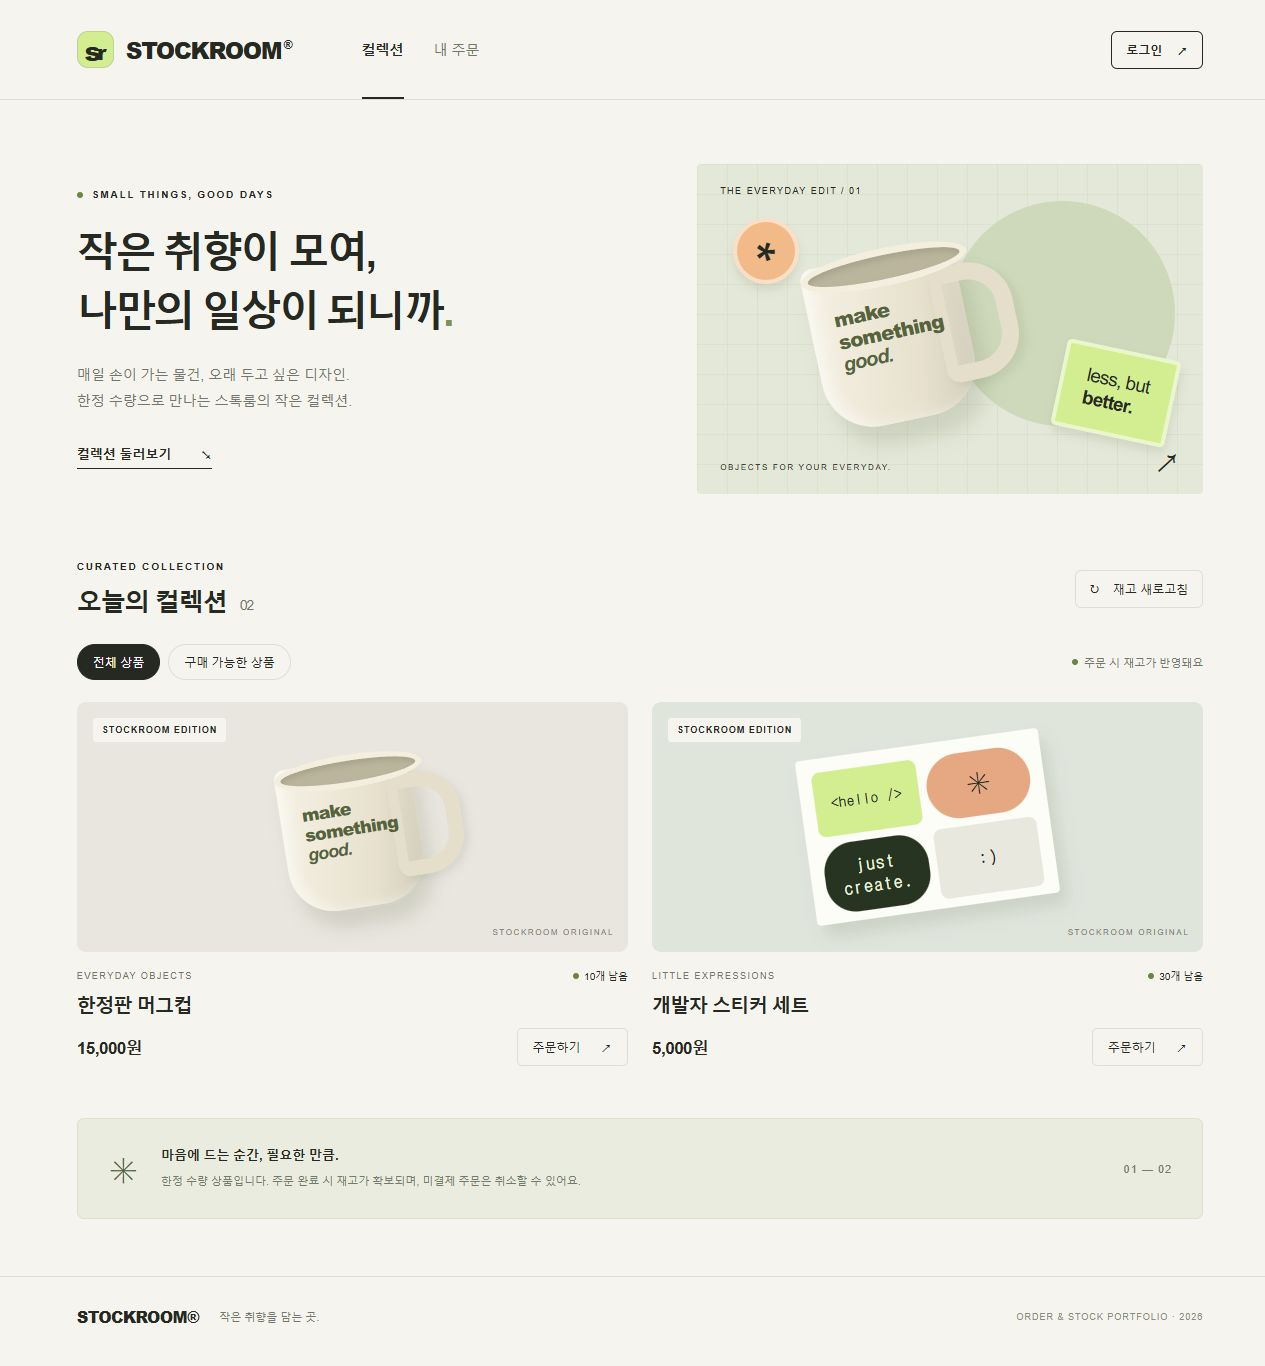
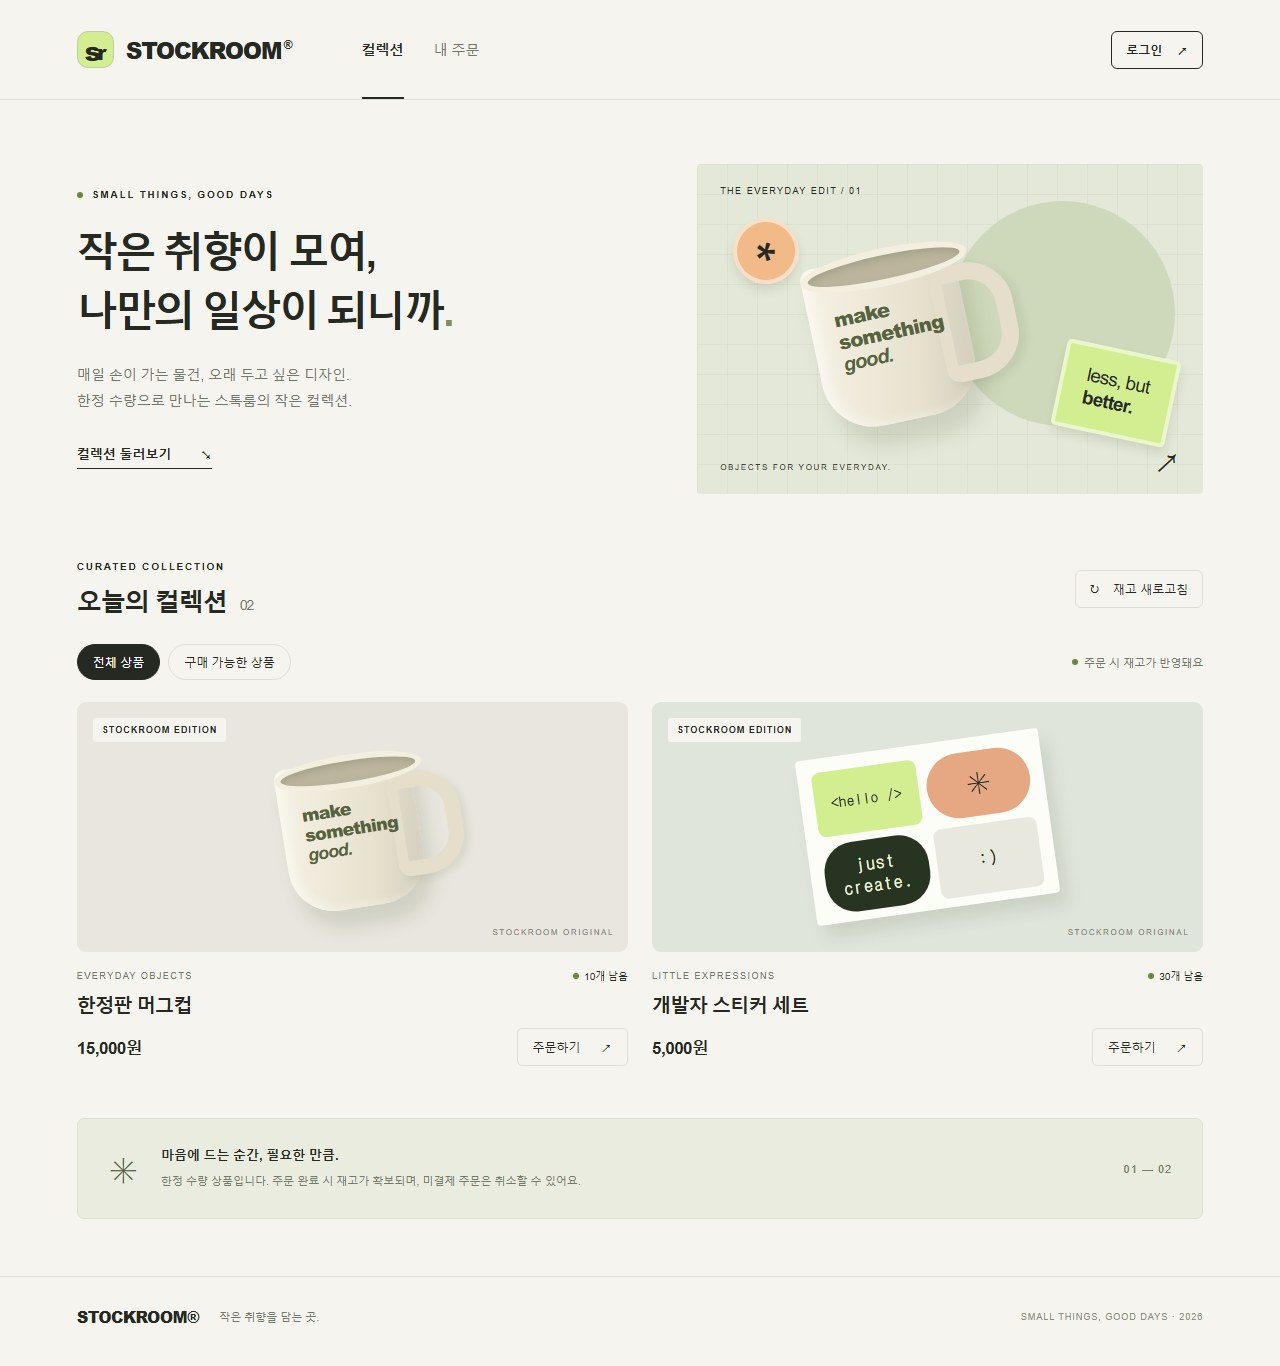
docs: align project documentation and interface copy

diff --git a/src/main/resources/static/index.html b/src/main/resources/static/index.html
@@ -32,7 +32,7 @@
     </section>
     <section id="orders-view" hidden aria-labelledby="orders-title"><div class="page-intro"><p class="eyebrow">YOUR LITTLE COLLECTION</p><h1 id="orders-title">내 주문<span class="period">.</span></h1><p>담아 둔 취향과 주문의 모든 순간을 확인하세요.</p></div><div class="section-heading"><h2>주문 내역</h2><button class="button ghost small" id="refresh-orders">↻ 새로고침</button></div><div id="orders" aria-live="polite"></div><button class="button load-more" id="load-more" hidden>이전 주문 더 보기 ↓</button></section>
   </main>
-  <footer><a class="footer-brand" href="#shop">STOCKROOM®</a><p>작은 취향을 담는 곳.</p><span>ORDER & STOCK PORTFOLIO · 2026</span></footer>
+  <footer><a class="footer-brand" href="#shop">STOCKROOM®</a><p>작은 취향을 담는 곳.</p><span>SMALL THINGS, GOOD DAYS · 2026</span></footer>
   <div id="toast" role="status" aria-live="polite" hidden></div>
   <dialog id="auth-dialog" aria-labelledby="auth-title"><button class="close" data-close aria-label="닫기">×</button><p class="eyebrow">WELCOME TO STOCKROOM</p><h2 id="auth-title">다시 만나 반가워요.</h2><p id="auth-description" class="muted">로그인하고 나만의 컬렉션을 만나보세요.</p><form id="auth-form"><label for="email">이메일</label><input id="email" name="email" type="email" autocomplete="username" placeholder="you@example.com" maxlength="254" required><label for="password">비밀번호</label><input id="password" name="password" type="password" autocomplete="current-password" placeholder="비밀번호를 입력하세요" required><p id="password-help" class="field-help" hidden>8자 이상, UTF-8 기준 72바이트 이하로 입력하세요.</p><p class="form-error" id="auth-error" role="alert"></p><button class="button primary full" id="auth-submit" type="submit">로그인 →</button></form><p class="auth-switch"><span id="auth-switch-label">아직 계정이 없나요?</span> <button class="text-link" id="auth-switch">회원가입</button></p></dialog>
   <dialog id="purchase-dialog" aria-labelledby="purchase-title"><button class="close" data-close aria-label="닫기">×</button><p class="eyebrow">A LITTLE SOMETHING FOR YOU</p><h2 id="purchase-title">주문하기</h2><p class="muted" id="purchase-stock"></p><form id="purchase-form"><div class="quantity-row"><label for="quantity">수량</label><div class="stepper"><button type="button" id="quantity-minus" aria-label="수량 줄이기">−</button><input id="quantity" name="quantity" type="number" min="1" step="1" value="1" required><button type="button" id="quantity-plus" aria-label="수량 늘리기">+</button></div></div><div class="total-row"><span>주문 금액</span><strong id="purchase-total"></strong></div><p class="field-help">주문이 완료되면 재고가 확보돼요. 결제 전에는 내 주문에서 취소할 수 있어요.</p><p class="form-error" id="purchase-error" role="alert"></p><button class="button primary full" id="purchase-submit" type="submit">주문 완료하기 →</button></form></dialog>

diff --git a/docs/design-and-validation.md b/docs/design-and-validation.md
@@ -3,12 +3,12 @@
 ## 프로젝트 목적과 범위
 
 한정 수량 상품을 여러 회원이 동시에 주문할 때 초과 판매를 막고,
-응답을 받지 못해 재시도해도 주문이 중복 생성되지 않도록 구현한 Java/Spring 백엔드 포트폴리오입니다.
+응답을 받지 못해 재시도해도 주문이 중복 생성되지 않도록 구현한 Java/Spring 기반 주문·재고 서비스입니다.
 회원가입·상품·주문·모의 결제·모의 환불을 웹 화면에서 직접 체험하고 실제 MySQL 결과로 검증합니다.
 
 구현 범위는 단일 상품 주문·전액 모의 환불·단일 앱 인스턴스입니다.
 실제 PG·배송·장바구니·분산 세션은 포함하지 않습니다. 관리자 상품 등록·수정·판매 중지와 전체 재고 이동 원장을 제공합니다.
-2026-10-13 기준 공개 서버·도메인은 연결하지 않았으며 공개 배포 완료로 기재하지 않습니다.
+공개 서버·도메인은 아직 연결하지 않았습니다.
 
 ## 아키텍처
 
@@ -149,14 +149,16 @@ Java 17·MySQL 8.4, Docker가 보고한 CPU 16개·메모리 약 15.4 GiB 환경
 
 이 실험으로 기존 원장 BASELINE에 대한 반복 UPSERT의 인덱스 구간 잠금 교착을 발견했습니다.
 시작 재고는 생성 시 한 번만 기록하도록 수정하고 서로 다른 상품 8개에 대한 동시 주문 회귀 검증을 추가했습니다.
-성능 숫자와 함께 성공 여부·DB 잔액을 검증해야 하는 이유를 실제 오류와 수정으로 설명할 수 있습니다.
+처리량·지연과 함께 성공 주문 수와 DB 잔액을 확인해 정합성 문제가 있는 실행을 성능 비교에서 제외했습니다.
 
-## 면접에서 설명할 흐름
+## 주요 검증 시나리오
 
-1. 재고 10개에 동시 주문이 오거나 응답이 유실되는 상황을 먼저 제시합니다.
-2. 상품 잠금과 트랜잭션, 회원별 멱등 키가 각각 어떤 문제를 해결하는지 코드로 설명합니다.
-3. 성공 응답뿐 아니라 DB 주문 수·재고·실패 후 롤백을 확인한 검증을 보여줍니다.
-4. 같은 상품의 잠금 경합과 짧은 벤치마크의 한계를 설명하고, 실제 계측 뒤 개선할 계획을 말합니다.
+| 시나리오 | 확인하는 결과 | 재현 방법 |
+|---|---|---|
+| 재고 10개에 동시 주문 | 성공 주문 10건, 남은 재고 0개, 초과 판매 없음 | [HTTP 동시 요청 검증](load-testing.md) |
+| 주문 응답 유실 후 같은 키로 재시도 | 기존 주문 반환, 주문 생성·재고 차감 1회 | [멱등 요청](idempotency.md)·[브라우저 검증](browser-tests.md) |
+| 저장 도중 오류 발생 | 주문·재고·요청 키·원장 변경 전체 롤백 | MySQL 통합 테스트의 실패 주입 시나리오 |
+| 같은 상품과 여러 상품의 동시 주문 비교 | 성공 주문·원장 잔액 확인 후 처리량과 지연 비교 | [워밍업·반복 측정](paired-benchmark.md) |
 
 ## 남은 작업
 

diff --git a/docs/docker.md b/docs/docker.md
@@ -54,7 +54,7 @@ docker compose ps
 |---|---|
 | 이미지 빌드 | Temurin Java 17 JDK에서 Gradle Wrapper로 `bootJar` 실행 |
 | 앱 실행 | Java 17 JRE, UID/GID 10001의 전용 사용자 |
-| 앱 프로필 | 로컬 학습용 `local`: 세션 로그인·CSRF·모의 결제·환불 사용 가능 |
+| 앱 프로필 | 로컬 개발용 `local`: 세션 로그인·CSRF·모의 결제·환불 사용 가능 |
 | DB | MySQL 8.4, `order_stock` 스키마에 접근하는 `order_app` 계정 |
 | 시작 순서 | DB 계정의 TCP `SELECT 1` 성공 후 앱 시작, 앱 readiness로 준비 확인 |
 | 네트워크 | 앱은 컨테이너에서 `0.0.0.0:8080`, 호스트에는 `127.0.0.1:18080`만 공개 |
@@ -70,12 +70,12 @@ DB 준비 대기는 [Compose의 `service_healthy`](https://docs.docker.com/compo
 `docker compose config`와 `docker inspect`에는 실행 환경 변수가 보일 수 있으므로 출력 공유 시 주의하세요.
 설정 검증만 필요하면 위처럼 `config --quiet`를 사용합니다.
 
-이 Compose 파일은 본인 컴퓨터에서 HTTP로 실습하기 위한 구성입니다.
+이 Compose 파일은 본인 컴퓨터에서 HTTP로 실행하기 위한 구성입니다.
 외부 서버에 그대로 공개하지 마세요. 실제 운영은 [배포 안내](deployment.md)의 `prod`·HTTPS·운영 DB 구성을 사용합니다.
 운영 Docker 구성은 [HTTPS 배포 안내](https-deployment.md)의 별도 Compose 파일을 사용합니다.
 Docker 이미지를 단독 실행할 때는 기본 `prod`이며, 운영 접속 정보를 주지 않으면 시작을 거부합니다.
 
-## 인증·주문 실습
+## 인증·주문 API 안내
 
 [인증](auth.md), [주문](order-api.md), [결제](payments.md), [환불](refunds.md) 문서의 URL에서
 `http://localhost:8080`을 `http://localhost:18080`으로 바꿔 사용합니다.
@@ -120,7 +120,7 @@ docker compose exec db mysql --user=order_app --password order_stock
 3. 실제 HTTP 회원가입·로그인·CSRF, 주문과 재요청, 반복 취소, 모의 결제·환불과 재고 복구.
 4. `down` 후 같은 볼륨으로 컨테이너를 새로 만들고 회원·주문·재고·결제·환불 이력 보존 확인.
 
-CI의 비밀번호와 실습 회원은 매번 임의로 생성하며 CI 종료 시 전용 DB 볼륨을 정리합니다.
+CI의 비밀번호와 테스트 회원은 매번 임의로 생성하며 CI 종료 시 전용 DB 볼륨을 정리합니다.
 애플리케이션 통합 테스트 151개는 기존 [Backend CI](../.github/workflows/ci.yml)가 별도로 실행합니다.
 Docker 빌드의 `bootJar` 단계 자체가 테스트 실행을 대신하지 않습니다.
 

diff --git a/docs/development-workflow.md b/docs/development-workflow.md
@@ -6,12 +6,12 @@
 
 ## PR별 작업 기록
 
-| 브랜치 | 범위 | 검토 |
+| 작업 | 범위 | 검토 |
 |---|---|---|
 | `feat/browser-e2e` | 데스크톱·모바일 브라우저 테스트 | [PR #1](https://github.com/zeroziba9-hash/order-stock-service/pull/1) |
 | `feat/load-testing` | HTTP 동시 요청·실제 DB 결과·측정 | [PR #2](https://github.com/zeroziba9-hash/order-stock-service/pull/2) |
 | `feat/deployment-verification` | HTTPS 배포 결과 점검·CI·운영 기록 | [PR #3](https://github.com/zeroziba9-hash/order-stock-service/pull/3) |
-| `docs/portfolio` | README·아키텍처·설계 근거·검증 문서 | [PR #4](https://github.com/zeroziba9-hash/order-stock-service/pull/4) |
+| 설계·검증 문서 | README·아키텍처·설계 근거·검증 문서 | [PR #4](https://github.com/zeroziba9-hash/order-stock-service/pull/4) |
 | `feat/order-expiration` | 미결제 주문 자동 만료·V8→V9 업그레이드·브라우저 검증 | [PR #5](https://github.com/zeroziba9-hash/order-stock-service/pull/5) |
 | `feat/verified-api-docs` | 테스트 기반 REST Docs·API 계약·마스킹 검증 | [PR #6](https://github.com/zeroziba9-hash/order-stock-service/pull/6) |
 | `feat/observability` | Prometheus·Grafana·운영 계측 | [PR #7](https://github.com/zeroziba9-hash/order-stock-service/pull/7) |
@@ -22,10 +22,10 @@
 | `feat/monitoring-alert-rules` | 경고 5개·상태 패널·대응 문서·실제 앱 중단/복구·인증 폭주 검증 | [PR #12](https://github.com/zeroziba9-hash/order-stock-service/pull/12) |
 | `feat/request-tracing` | 서버 발급 요청 ID·보안 필터 차단 추적·안전한 오류 로그 | [PR #13](https://github.com/zeroziba9-hash/order-stock-service/pull/13) |
 
-현재 `feat/request-tracing`에서 응답 ID와 서버 로그 연결·민감정보 제외·동시 요청 격리를 검증합니다.
+현재 `docs/project-documentation`에서 프로젝트 소개·설계 문서·화면 문구를 정리합니다.
 PR #13은 PR #11까지 병합된 main에서 시작했으며, PR #12 병합 후 최신 main을 기능 브랜치에 병합해 문서 충돌을 해결했습니다.
 
-위 PR #1~#12는 main에 병합됐습니다. 초기 #1~#4는 같은 main 커밋에서 독립적으로 시작했고,
+위 PR #1~#13은 main에 병합됐습니다. 초기 #1~#4는 같은 main 커밋에서 독립적으로 시작했고,
 이후 기능도 최신 병합 main에서 분기합니다. 미병합 코드를 다음 기능에 섞지 않습니다.
 PR #8은 PR #6 기준으로 시작했으며, PR #7 병합 후 최신 main을 기능 브랜치에 병합해 충돌을 해결했습니다.
 

diff --git a/docs/deployment.md b/docs/deployment.md
@@ -4,7 +4,7 @@
 실제 배포 서버와 도메인은 아직 연결하지 않았습니다.
 이 문서는 Java 17 실행 JAR와 Linux systemd를 기준으로 합니다.
 본인 컴퓨터에서 앱과 DB를 함께 실행하는 방법은 [Docker Compose 안내](docker.md)를 참고하세요.
-루트의 `compose.yaml`은 로컬 학습용입니다.
+루트의 `compose.yaml`은 로컬 개발용입니다.
 Docker로 운영 배포할 때는 별도의 [운영 Compose·Caddy HTTPS 안내](https-deployment.md)를 사용하세요.
 
 ## 환경별 동작
@@ -28,7 +28,7 @@ Docker로 운영 배포할 때는 별도의 [운영 Compose·Caddy HTTPS 안내]
 - 인증 요청 제한 해제와 원격 IP를 바꾸는 자동 forwarded-header 처리를 거부합니다.
 
 환경 변수 이름은 `SPRING_DATASOURCE_URL`, `SPRING_DATASOURCE_USERNAME`, `SPRING_DATASOURCE_PASSWORD`입니다.
-프로필을 생략하면 로컬 실습용으로 시작하므로 실제 서버에는 반드시 `prod`를 지정하세요.
+프로필을 생략하면 로컬 개발용으로 시작하므로 실제 서버에는 반드시 `prod`를 지정하세요.
 프로필 규칙은 [Spring Boot 공식 문서](https://docs.spring.io/spring-boot/4.0/reference/features/profiles.html)를 참고하세요.
 
 ## CI: push·PR마다 실제 MySQL 테스트
@@ -98,7 +98,7 @@ curl --fail http://127.0.0.1:8080/actuator/health/readiness
 현재 컴퓨터의 로컬 MySQL 접속 설정은 운영 TLS 설정으로 사용하지 않습니다.
 
 앱은 기본적으로 `127.0.0.1:8080`에 바인딩합니다. 외부 요청은 프록시의 HTTPS 주소로 받아 내부 앱에 전달합니다.
-운영 쿠키가 Secure이므로 브라우저 실습도 HTTPS 주소를 사용해야 합니다.
+운영 쿠키가 Secure이므로 브라우저에서도 HTTPS 주소를 사용해야 합니다.
 서버가 `Forwarded` 헤더를 신뢰하도록 별도 설정하지 않았으며, 앱 포트를 외부에 직접 노출하지 않습니다.
 컨테이너 등 별도 네트워크에서는 실제 배치에 맞게 `SERVER_ADDRESS`를 지정하세요.
 

diff --git a/docs/auth.md b/docs/auth.md
@@ -1,4 +1,4 @@
-# 회원가입·로그인·본인 주문 실습
+# 회원가입·로그인·본인 주문 API 안내
 
 상품 목록과 서버 상태는 누구나 조회할 수 있습니다. 주문 생성·조회·취소는 로그인이 필요합니다.
 아래 명령은 같은 PowerShell 터미널에서 순서대로 실행하세요.
@@ -81,7 +81,7 @@ Invoke-RestMethod -Method Post -Uri "$base/orders/$($order.orderId)/cancel" `
 같은 회원이 같은 키·내용으로 재요청하면 본인의 기존 주문을 반환합니다.
 
 PowerShell의 세션 쿠키는 브라우저와 별도로 관리됩니다. 본인 주문 조회도 위처럼 같은 세션으로 요청하세요.
-이 예제는 미결제 주문을 취소합니다. 결제 실습은 새 주문을 만들어 [모의 결제 안내](payments.md)를 따라가세요.
+이 예제는 미결제 주문을 취소합니다. 모의 결제는 새 주문을 만들어 [모의 결제 안내](payments.md)를 따라가세요.
 결제 완료 주문은 [모의 환불](refunds.md)로 환불과 취소를 함께 처리합니다.
 
 ## 5. 로그아웃
@@ -113,7 +113,7 @@ Spring Security의 로그인·로그아웃 필터, 세션 ID 교체, 기본 CSRF
 주문 조회와 잠금 쿼리에 사용자 ID를 함께 넣고, 요청 키의 유니크 범위는 `(user_id, request_key)`입니다.
 실제 로그인 세션, CSRF, 비밀번호 해시, 중복 가입, 타인 주문 접근 차단, 회원별 요청 키를 테스트합니다.
 
-기본 `local`은 HTTP 실습용입니다. 운영 `prod`는 Secure 쿠키를 강제하고 HTTPS 주소로 접속해야 합니다.
+기본 `local`은 로컬 HTTP 환경입니다. 운영 `prod`는 Secure 쿠키를 강제하고 HTTPS 주소로 접속해야 합니다.
 환경 변수·프로필·배포 방법은 [배포 안내](deployment.md)를 참고하세요.
 공식 문서: [세션 관리](https://docs.spring.io/spring-security/reference/servlet/authentication/session-management.html),
 [CSRF](https://docs.spring.io/spring-security/reference/servlet/exploits/csrf.html).

diff --git a/docs/api-documentation.md b/docs/api-documentation.md
@@ -2,7 +2,7 @@
 
 Spring REST Docs 4.0.1(Boot 4.0.8 관리 버전)과 AsciidoctorJ로 인증·상품·주문·모의 결제·환불·관리자 상품/재고/전체 원장의 HTML 가이드를 생성합니다.
 요청·응답 JSON, 필드 설명, 경로·쿼리·폼 파라미터, 멱등 응답 헤더를 테스트와 연결합니다.
-기존 [인증 실습](auth.md)·[주문 실습](order-api.md)은 따라 해보는 설명이고, 생성 가이드는 API 계약을 확인하는 자료입니다.
+기존 [인증 API 안내](auth.md)·[주문 API 안내](order-api.md)는 따라 해보는 설명이고, 생성 가이드는 API 계약을 확인하는 자료입니다.
 
 Gradle 플러그인 저장소는 `settings.gradle`에서 Maven Central과 Plugin Portal을 명시합니다.
 플러그인 전이 의존성은 Central에서 직접 조회해 Portal의 프록시 경로에만 의존하지 않습니다.
@@ -65,7 +65,7 @@ HTTP 실행과 검증을 마친 뒤, **문서 생성 직전**에 비밀번호·C
 
 MockMvc는 HTTP 서버 대신 세션 객체를 직접 연결합니다. 따라서 HTTP 스니펫에는 쿠키가 생략되며,
 실제 클라이언트에서는 같은 출처 브라우저 또는 쿠키를 보관하는 클라이언트를 사용해야 합니다.
-마스킹된 값을 그대로 복사해서 호출할 수는 없습니다. 실행 예제는 [인증 실습](auth.md)을 참고하세요.
+마스킹된 값을 그대로 복사해서 호출할 수는 없습니다. 실행 예제는 [인증 API 안내](auth.md)를 참고하세요.
 
 ## API 변경 시
 

diff --git a/docs/refunds.md b/docs/refunds.md
@@ -1,8 +1,8 @@
-# 모의 전액 환불과 주문 취소 실습
+# 모의 전액 환불과 주문 취소 API
 
 결제 완료 주문은 환불 API에서 **전액 환불·주문 취소·재고 복구를 함께** 처리합니다.
-외부 결제사 호출이나 실제 돈의 이동이 없는 로컬 학습용 API입니다. 부분 환불은 지원하지 않습니다.
-아래 실습은 기본 `local` 프로필용입니다. `prod`에서는 모의 환불 POST를 `404 MOCK_API_DISABLED`로 차단하고 본인 이력 조회는 유지합니다.
+외부 결제사 호출이나 실제 돈의 이동이 없는 로컬 개발용 API입니다. 부분 환불은 지원하지 않습니다.
+아래 예제는 기본 `local` 프로필용입니다. `prod`에서는 모의 환불 POST를 `404 MOCK_API_DISABLED`로 차단하고 본인 이력 조회는 유지합니다.
 
 ## 상태와 기록
 
@@ -22,7 +22,7 @@ stateDiagram-v2
 
 ## 1. 로그인하고 결제 완료 주문 준비
 
-[인증 실습](auth.md)의 1~3번으로 로그인한 PowerShell 터미널에서 실행합니다.
+[인증 API 안내](auth.md)의 1~3번으로 로그인한 PowerShell 터미널에서 실행합니다.
 상품 ID와 재고를 먼저 확인하세요. 이미 결제 완료된 본인 주문이 있다면 그 주문 번호를 사용해도 됩니다.
 
 ```powershell

diff --git a/docs/https-deployment.md b/docs/https-deployment.md
@@ -1,7 +1,7 @@
 # 단일 Linux 서버에 HTTPS로 배포하기
 
 `deploy/compose.prod.yaml`은 MySQL·Spring Boot·Caddy를 한 서버에서 실행하는 운영용 구성입니다.
-로컬 실습용 `compose.yaml`과 별개의 Compose 프로젝트·DB·볼륨을 사용합니다.
+로컬 개발용 `compose.yaml`과 별개의 Compose 프로젝트·DB·볼륨을 사용합니다.
 앱은 `prod`로 실행하며 모의 결제·환불 쓰기는 차단합니다.
 현재 외부 서버·DNS·공개 인증서 발급은 연결하지 않았습니다. 이 문서는 서버가 준비된 후 적용할 절차입니다.
 
@@ -123,7 +123,7 @@ docker compose --env-file deploy/compose.prod.env -f deploy/compose.prod.yaml lo
 
 ## 4. HTTPS에서 로그인·주문 확인
 
-[인증 실습](auth.md)과 [주문 API 실습](order-api.md)의 기본 URL을 `https://본인도메인`으로 바꿉니다.
+[인증 API 안내](auth.md)와 [주문 API 안내](order-api.md)의 기본 URL을 `https://본인도메인`으로 바꿉니다.
 로그인 성공 후 CSRF 토큰을 다시 받고 주문을 생성·조회·취소합니다.
 세션 쿠키는 Secure·HttpOnly·SameSite=Lax이며 HTTP로 보내지 않습니다.
 모의 결제·환불 POST는 `404 MOCK_API_DISABLED`입니다. 실제 결제사는 아직 연동하지 않았습니다.

diff --git a/AGENTS.md b/AGENTS.md
@@ -1,0 +1,7 @@
+# 프로젝트 문서와 화면 문구
+
+- README·설계 문서·화면은 이 서비스를 사용하거나 개발에 참여하는 사람을 대상으로 작성한다.
+- 프로젝트가 해결하는 문제, 구현한 기능, 설계 선택, 실행 방법, 실제 검증 결과와 현재 제약을 설명한다.
+- 개인의 활용 목적이나 발표 대본을 프로젝트 소개·운영 문서·제품 화면에 포함하지 않는다.
+- 재현 절차와 측정 근거를 유지하고, 확인하지 않은 결과나 실제 제공하지 않는 기능을 주장하지 않는다.
+- 파일 이름·문서 링크·화면 하단·대시보드 태그·미리보기 이미지도 같은 기준으로 검토한다.
